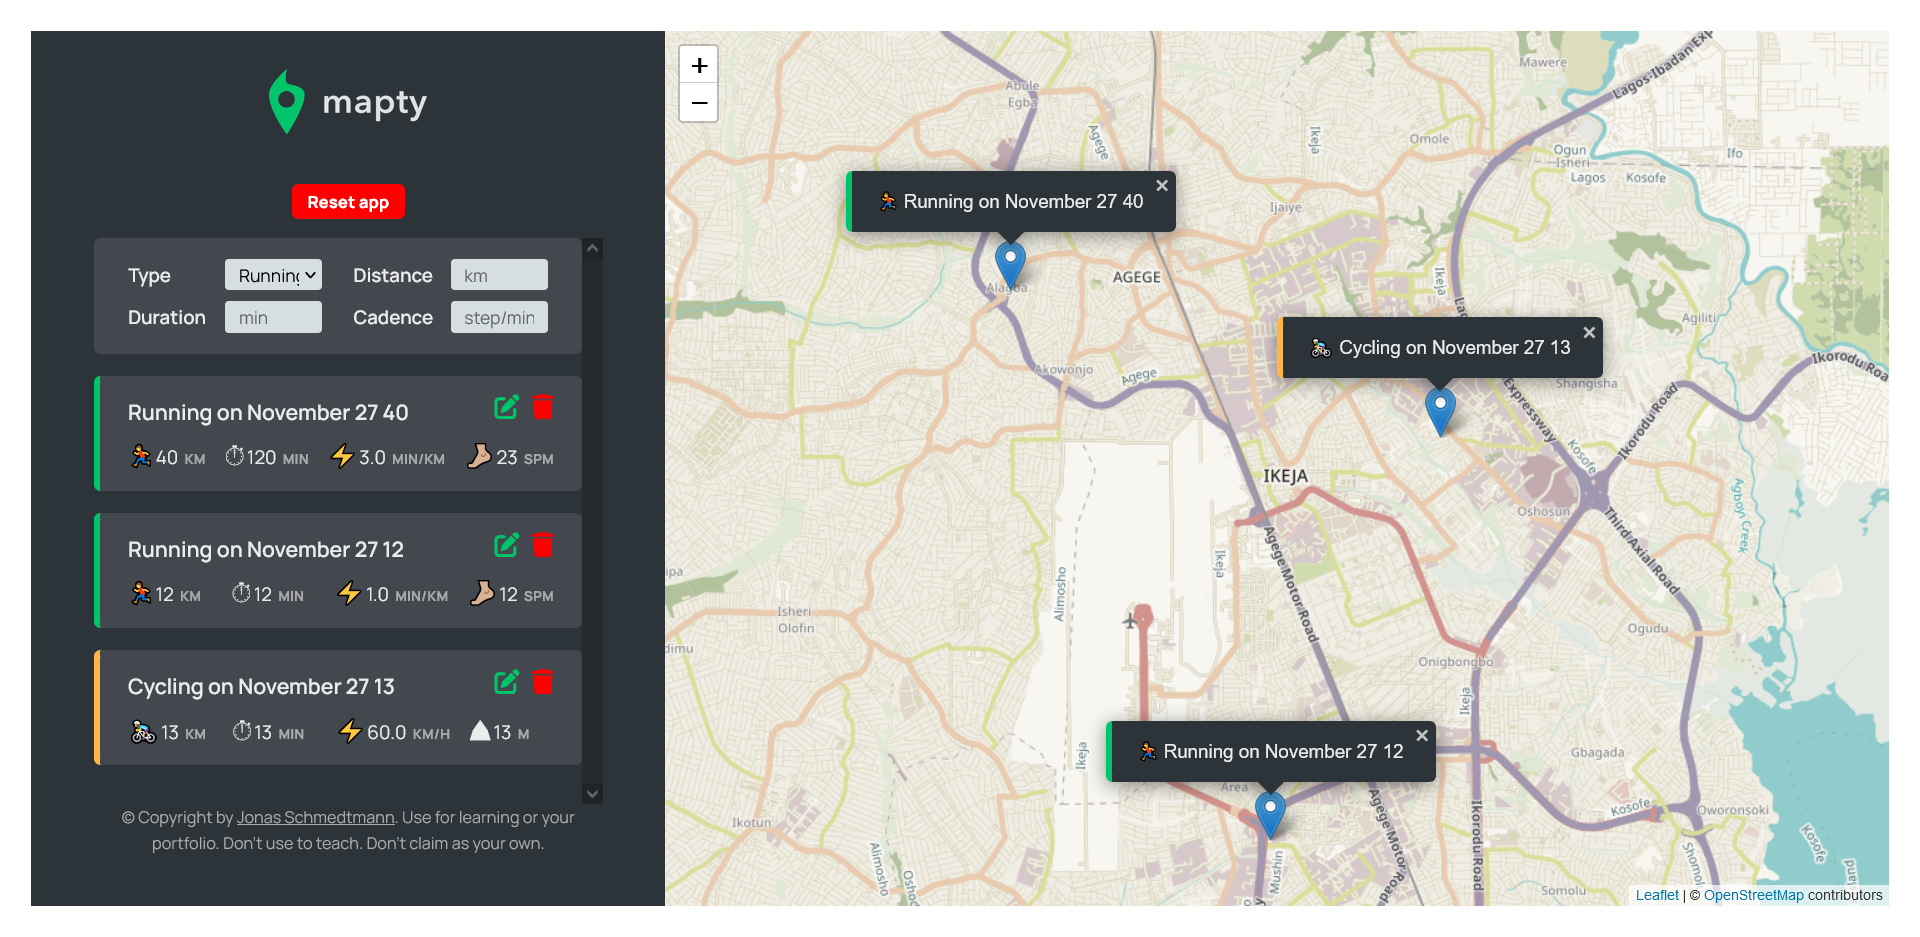
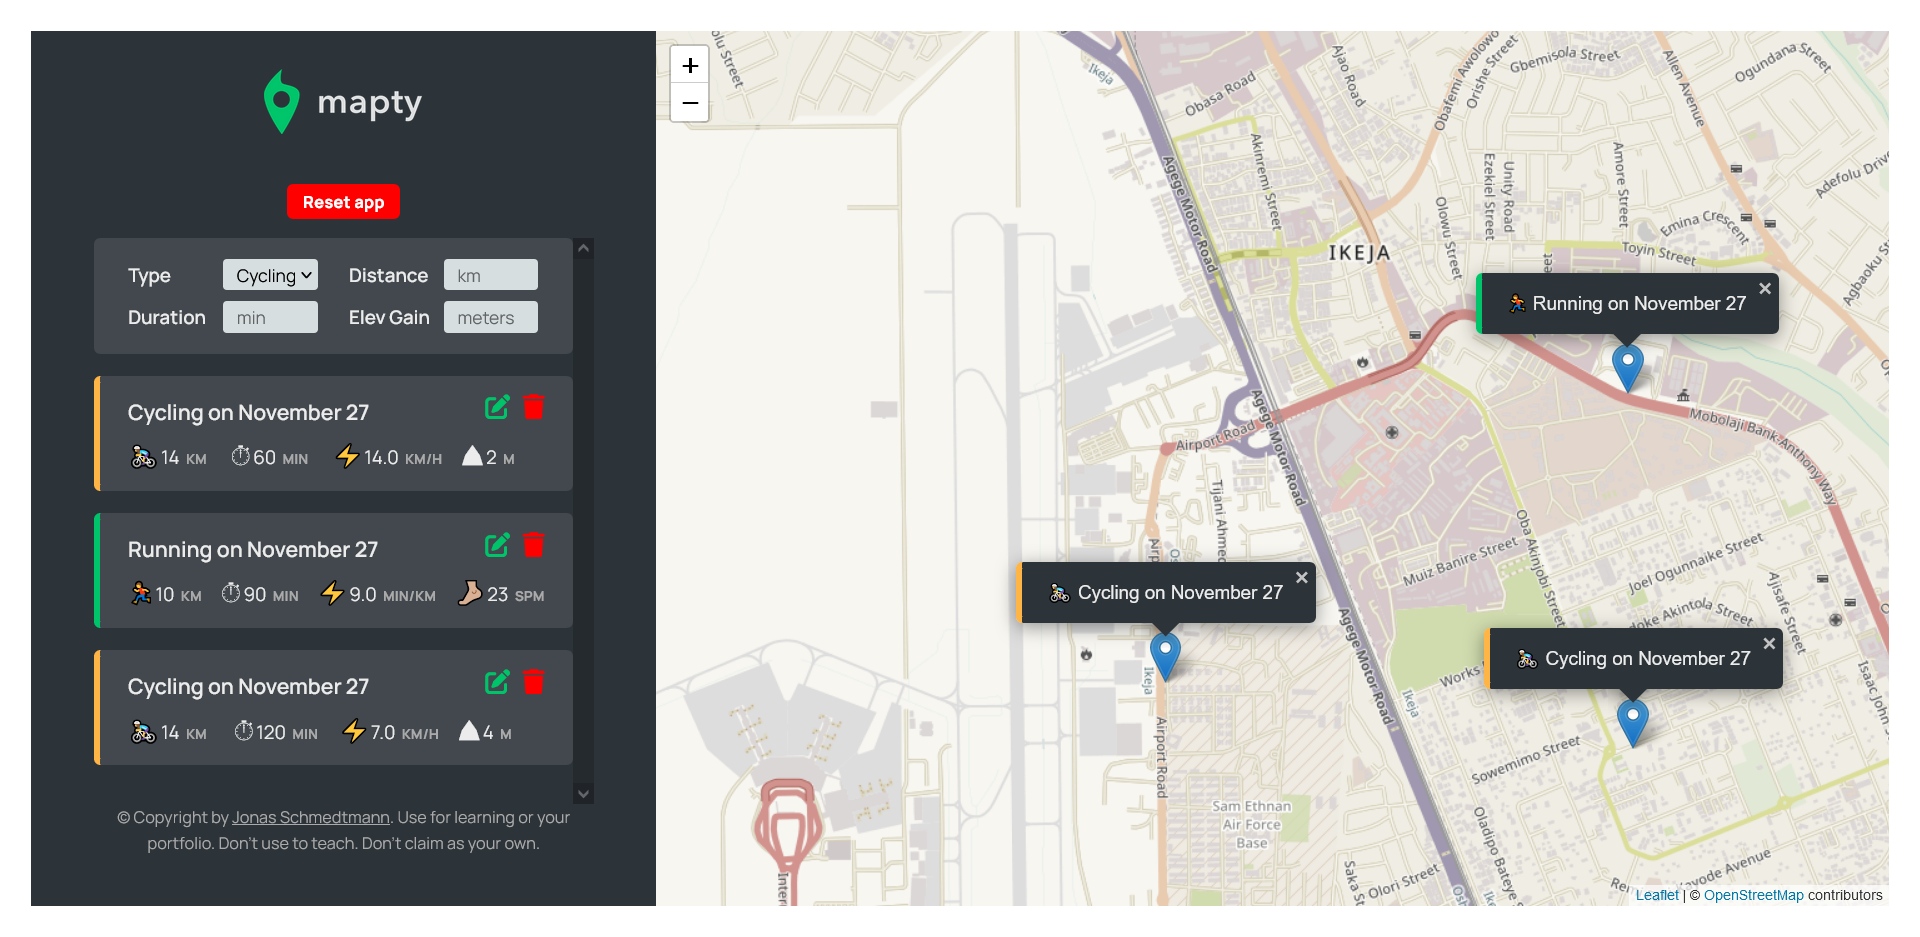
:memo: Modify workout description

diff --git a/script.js b/script.js
@@ -18,7 +18,7 @@ class Workout {
 
     this.description = `${this.type[0].toUpperCase()}${this.type.slice(1)} on ${
       months[this.date.getMonth()]
-    } ${this.date.getDate()} ${this.distance}`;
+    } ${this.date.getDate()}`;
   }
 
   click() {

diff --git a/README.md b/README.md
@@ -1,6 +1,6 @@
 # Jonas Schmedtmann's JS course project - Mapty
 
-This project is aimed at improving my JavaScript coding skills. Please note that this project is designed as a desktop application. For the best experience, I recommend accessing it on a desktop or laptop device. 
+This project is aimed at improving my JavaScript coding skills. Please note that this project is designed as a desktop application. For the best experience, I recommend accessing it on a desktop or laptop device.
 
 ## Table of contents
 
@@ -17,21 +17,18 @@ This project is aimed at improving my JavaScript coding skills. Please note that
     - [App Architecture](#app-architecture)
   - [Author](#author)
 
-
 ## Overview
 
 ### The challenge
 
 Users should be able to:
 
-- Choose any point on the map and choose between running or cycling. In order to submit the workout, the user needs to fill out several details like distance, duration, cadence or elevation. All the workout will be saved after choosing any new workout option. 
+- Choose any point on the map and choose between running or cycling. In order to submit the workout, the user needs to fill out several details like distance, duration, cadence or elevation. All the workout will be saved after choosing any new workout option.
 - Find the workout on the map by clicking on the list. The list contains workout details like pace, cadence, duration, speed as well as the date of the workout. If the user reloads the page, all the data will be saved.
 
 ### Screenshot
 
 ![Desktop site preview](desktop-preview.png)
-
-
 
 ### Links
 
@@ -48,6 +45,7 @@ Users should be able to:
 - Leaflet API
 
 ### Extra features(challenges) added:
+
 - Ability to delete all Workouts
 - Ability to delete a workout
 - Ability to edit a workout
@@ -59,13 +57,12 @@ Users should be able to:
 - JSON.parse - converts the string to obj, but I'll loose my prototype chain
 - location.reload - reloads a page
 
-
 ### App Architecture
-![App Architecture](Mapty-architecture-updated.png)
 
+![App Architecture](Mapty-architecture-updated.png)
 
 ## Author
 
 - Mail - [Oseni Solomon](jnrolalere@gmail.com)
 - Frontend Mentor - [Oseni Solomon](https://www.frontendmentor.io/profile/@SoloLere)
-- LinkedIn - [Oseni Solomon]()
+- LinkedIn - [Oseni Solomon](https://www.linkedin.com/in/solomon-oseni-b00aa1154)
